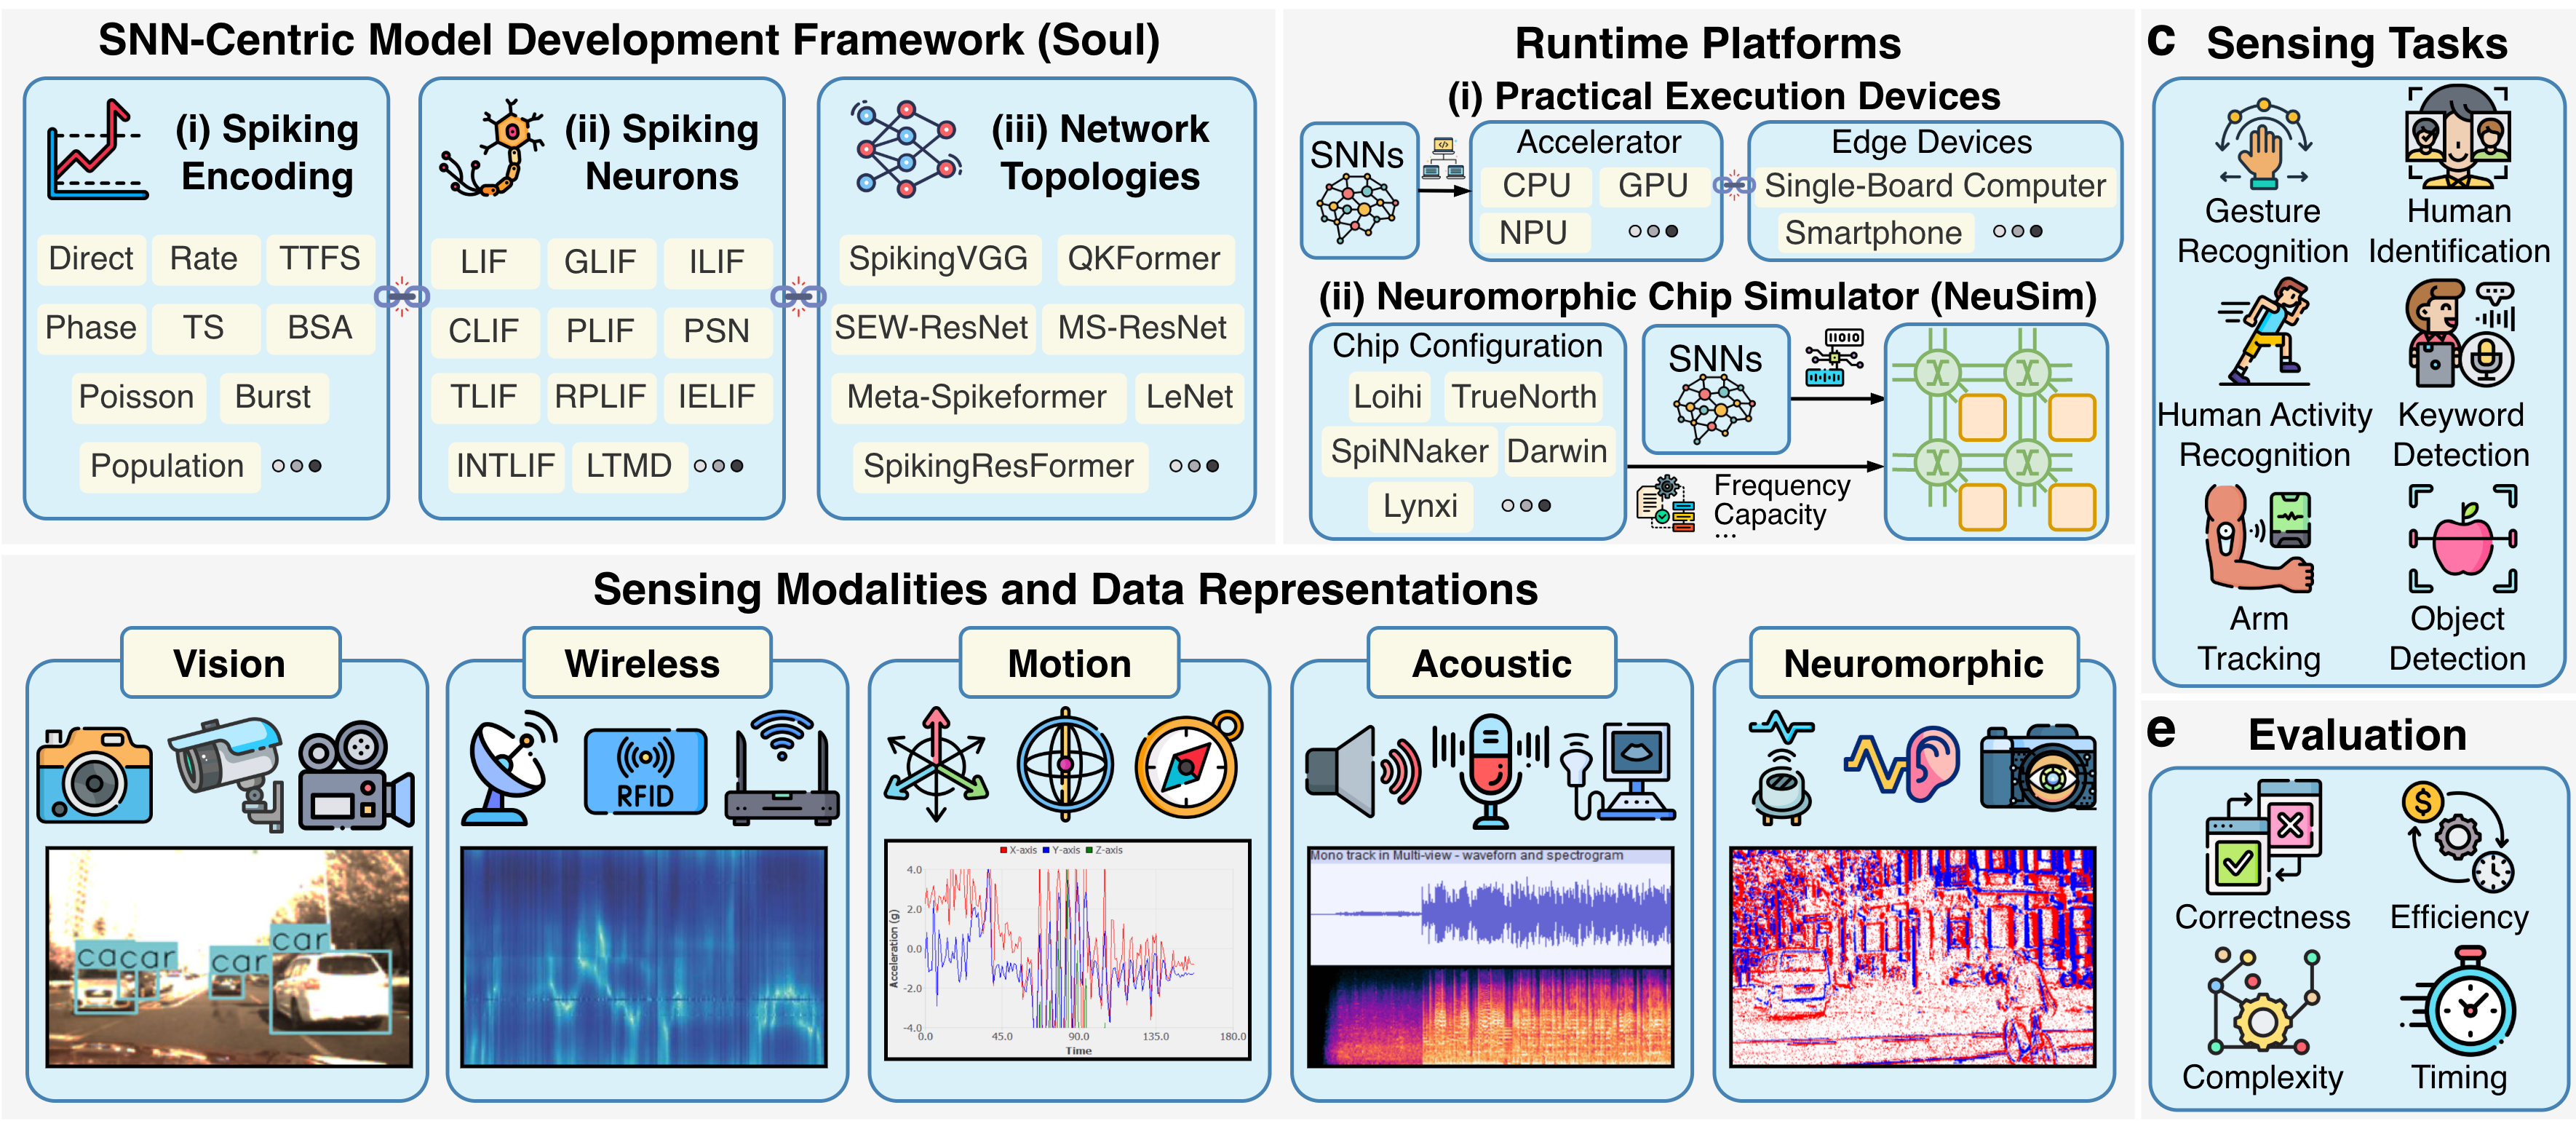
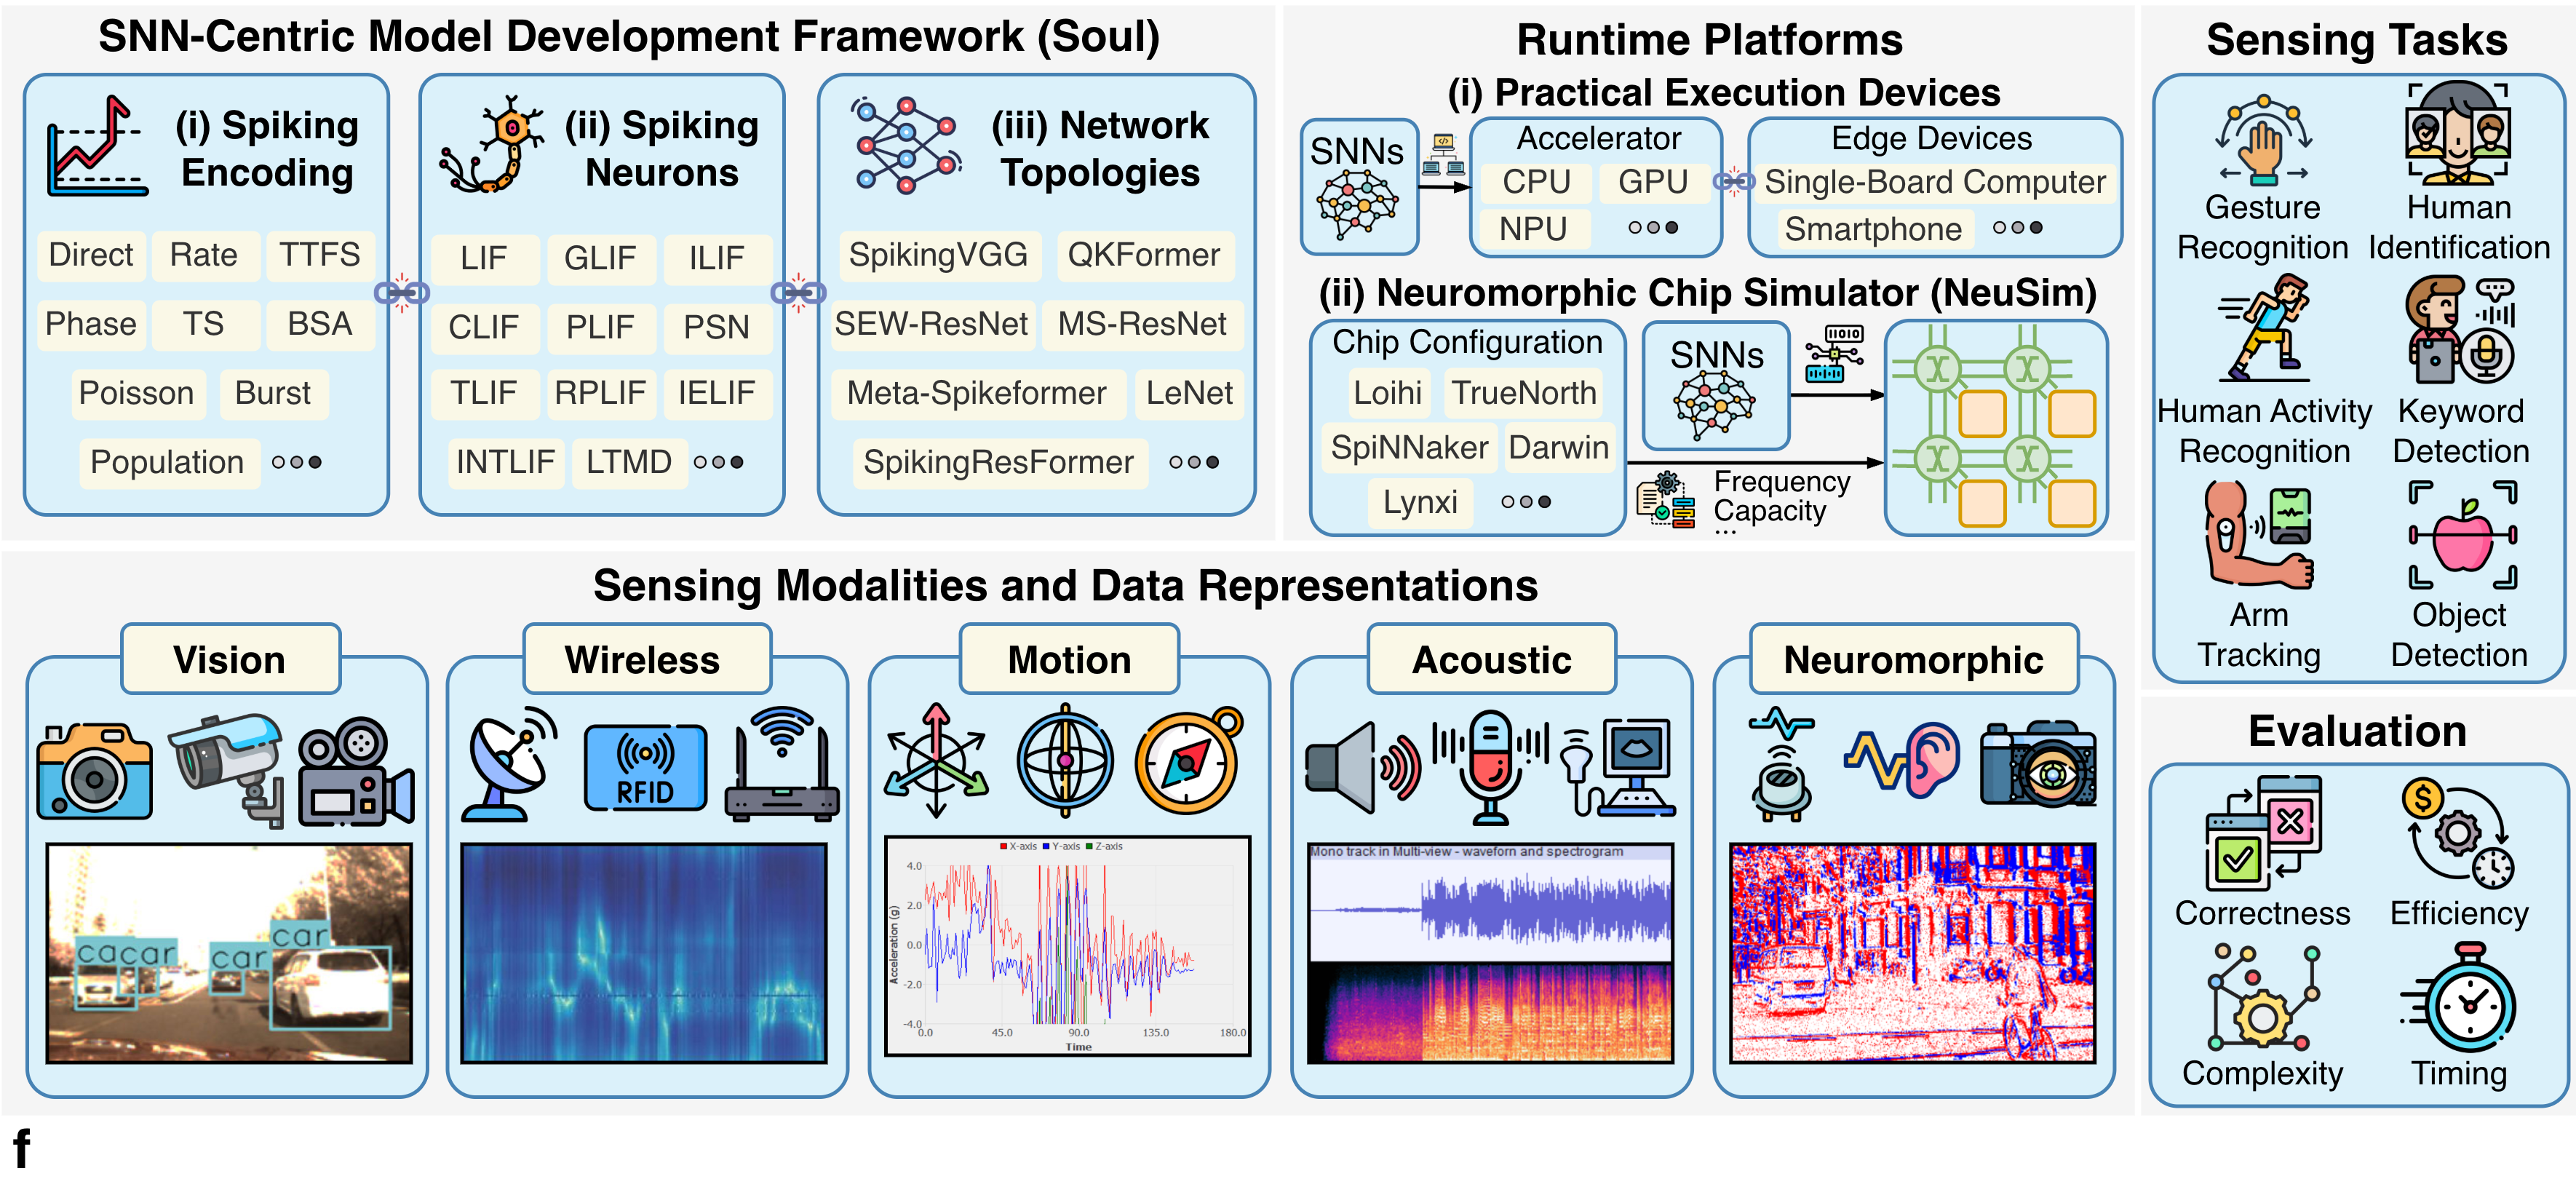
update

diff --git a/README.md b/README.md
@@ -54,7 +54,7 @@ If you want to dive deeper into all the available command-line options, configur
   <summary><b>Performance of different SNNs</b></summary>
 
   <p align="center">
-    <img src="./assets/cmp-topology.png" width="100%">
+    <img src="./assets/cmp-topology-sensing.png" width="100%">
   </p>
 
 </details>
@@ -177,20 +177,6 @@ Enjoy the code!
 
 ## TODO List
 
-- [x] 2026.1.4-2026.1.6 ~~收尾latency统计脚本，准备好OPs理论能耗脚本 @余帝~~
-- [ ] 2026.1.4-2026.2.1 收尾附录详情 @余帝
-- [x] 2026.1.4-2026.1.7 ~~定稿Fig 2 (SNN-bench)正文展示 @余帝~~ (差一个topology的结果，等待补全csv即可彻底完成) 
-- [x] 2026.1.4-2026.1.17 补全Table 1 @余帝 @张炜松
-- [x] 2026.1.6-2026.1.9 熟悉使用NeuSim做推理，并成功运行结果 @张炜松 @郑赫霖 @陈卓
-- [ ] ~~2026.1.6-2026.1.9 熟悉使用Darwin片上推理操作，并成功运行结果 (杜老师说可能不需要) @张炜松 @郑赫霖 @童文韬~~
-- [ ] 2026.1.9-2026.1.20 完成三种延迟结果统计（真实+理论），理论推理能耗统计 @郑赫霖 @张炜松 @陈卓 @童文韬
-- [x] 2026.1.10-2026.1.12 定稿Fig 5 (Soul-NeuSim推广展望)正文展示 @余帝 @陈卓
-- [ ] 2026.1.20-2026.1.24 定稿Fig 4 (latency-energy)正文展示 @余帝
-- [ ] 2026.1.21-2026.1.31 收尾Soul-Doc的内容并合并到main分支准备发布  @郑赫霖 @张炜松 
-- [ ] 2026.1.21-2026.1.31 协助补全Soul项目内的各文件Reference Comment  @郑赫霖 @张炜松 有任何疑问找@余帝
-- [x] 2026.1.24-2026.1.31 若latency、energy的相关结果均完成，在此基础上提交NeuSim分支合并申请 @陈卓
-- [ ] 2026.1.24-2026.2.1 补全子刊中wireless CSI频率适配相关理论以及Fig 3(各种分析图)正文展示 @廖振宇 @余帝
-- [ ] 2026.2.1-2026.2.14 收尾正文内容 @杜老师 @余帝
 - [ ] 2026.1.26-2026.1.27 给一个输入图片输出热力图的代码接口，用作Fig3的补充 @童文韬
 - [ ] 2026.1.30-2027.2.14 新增2个神经元 [PMSN（nips'25）](https://github.com/PengXue0812/Multiplication-Free-Parallelizable-Spiking-Neurons-with-Efficient-Spatio-Temporal-Dynamics),[HetSynLIF (nips'25)](https://github.com/dzcgood/HetSyn)，然后把SJ的izhkevich和HH也给融进来，用来对标step @吕昌泽
 - [ ] 2026.1.30-2027.2.14 check下intlif和NI-LIF，我感觉我们实现的是aaai的NI-LIF,INTLIF应该是前面ECCV的文章 @吕昌泽